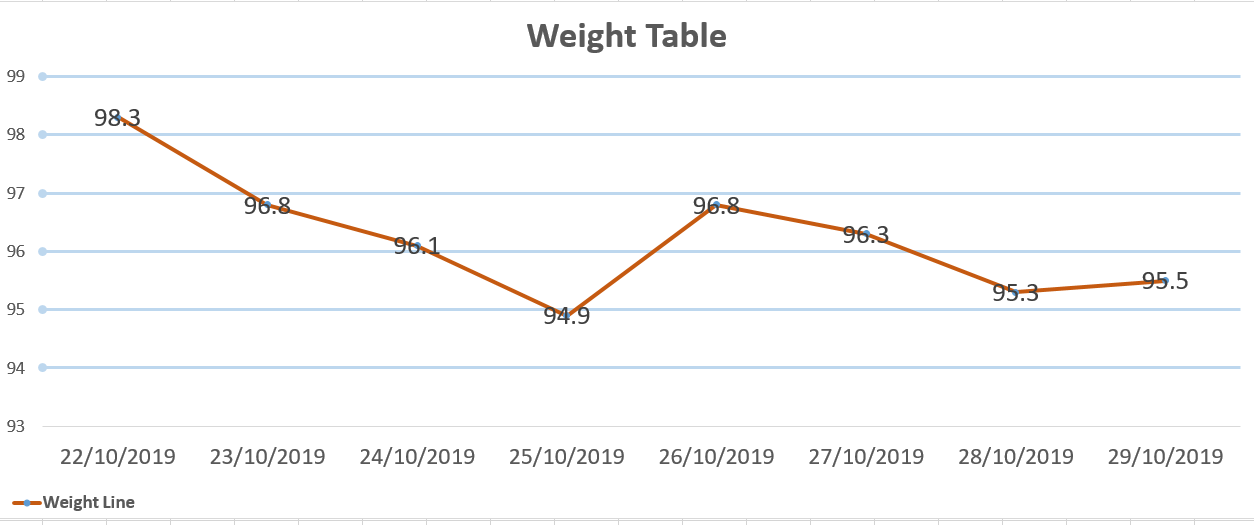
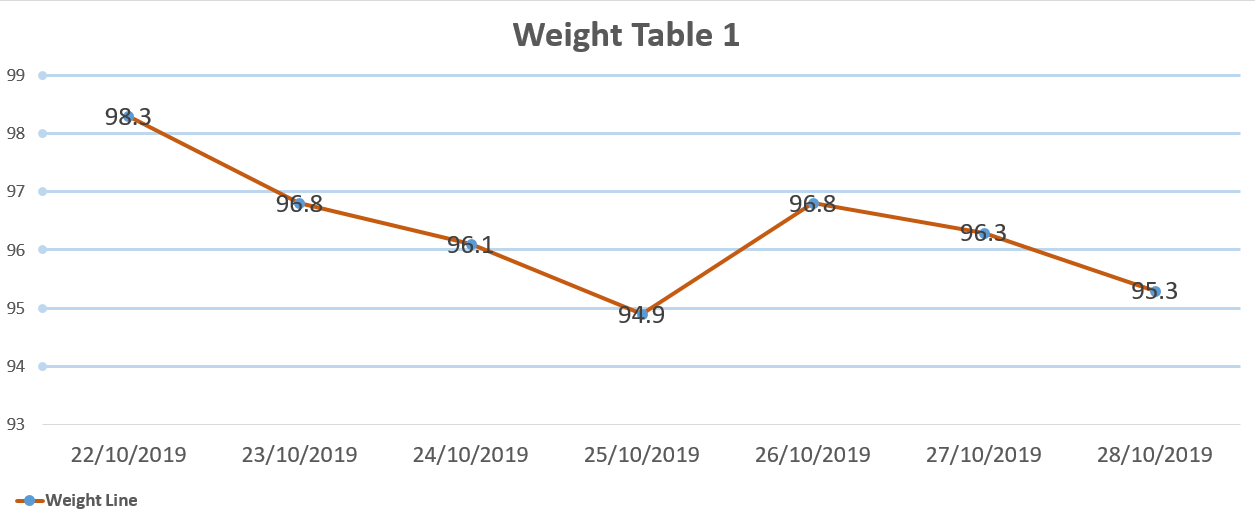
update

diff --git a/_posts/2019-11-11-day21.html b/_posts/2019-11-11-day21.html
@@ -1,0 +1,89 @@
+---
+layout: post
+title: "Day 21 - Bar Brothers Workout"
+subtitle: "Maybe hard to believe but I managed to reach the weight of
+the previous weekend. It's just amazing. My body starts to change, and the
+feeling is amazing. The workouts are
+hard. But everything pays off."
+date: 2019-11-11
+background: '/img/posts/intro-barbrothers.png'
+---
+
+
+<h2 class="section-heading">Weight - 94.0kg</h2>
+
+<p>
+  So today I weighed myself in the morning, I saw that my weight was back to being
+  just like last Friday (8.11.19). The feeling was good. But today I must not be hungry
+  like yesterday and so yesterday as I said I made green beans, it looks very good and
+  the smell of it is
+  amazing.
+<p>
+</p>
+  Today I decided to show all the tables so far,
+  I started training on Tuesday and so today (Monday) I close a
+  3 week cycle. Not just exercising every day but the results are
+  not too late to come, I think the Bar Brothers program is great for me,
+  and I really see results fast and now more than ever because my weight has
+   returned to being very fast what it was a week ago.
+</p>
+
+<p>
+</p>
+The first table shows that there is a drop from 98.3 and a relatively
+steep decline for the other graphs shown here, everywhere in the other
+mid-weight shows, this is the weekend when I dropped a bit of exercise
+and ate a little beyond what
+I was supposed to eat.
+<p>
+</p>
+
+
+
+<img class="img-fluid" src="/img/posts/weight-table1.png" alt="Demo Image">
+<span class="caption text-muted">The first week of my training</span>
+<p>
+</p>
+
+The second table shows that there is a little jump before the weekend
+and that is because I brought to the restaurant in the evening, although
+I did not eat leftovers from forbidden things, it was salad with tuna, but
+there were some potatoes and this has a relatively sharp effect before bed.
+After the weekend my weight jumped again and this time I gained weight to 96 kg.
+<p>
+</p>
+<img class="img-fluid" src="/img/posts/weight-table2.png" alt="Demo Image">
+<span class="caption text-muted">The scond week of my training</span>
+<p>
+</p>
+In the third table the beginning of the week started with a moderate drop
+and then again a sharp jump over the weekend, but note, this is almost 2kg
+ more than I had in the weeks before that, after which I lost weight
+ quite quickly to the weight I had on November 8th.
+ <p>
+ </p>
+<img class="img-fluid" src="/img/posts/weight-table3.png" alt="Demo Image">
+<span class="caption text-muted">The third training week</span>
+
+<p>
+It is best to see that there is a steady pace, a fall that I have on weekends and
+that I eat more than usual, but even if you fell down, if you give up then you
+lose everything. You have to go ahead and stop the program in the middle. At the
+moment, the results are brewing at a good pace. In another 20 days we will know
+exactly what the situation is and a comparison of pictures before and after.
+</p>
+<p>
+
+In addition, after a month, the waist and arms should be checked and abdomen
+and pelvis,
+</p>
+<p>
+Good night.
+</p>
+
+<a target="_blank" href="http://bit.ly/lookit-barbrothers"><img class="img-fluid" src="https://barbrothersdc.com/images/banners/gifbanner2.gif"/>
+</a>
+<ins class="adsbygoogle"
+     style="display:inline-block;width:728px;height:90px"
+     data-ad-client="ca-pub-7581310427771507"
+     data-ad-slot="7549637018"></ins>

diff --git a/_posts/2019-11-10-day20.html b/_posts/2019-11-10-day20.html
@@ -7,7 +7,7 @@ at 94kg which is excellent. This week we will see if I reach 92k and
  if so then maybe in two weeks I will already reach 90kg. It all depends
   on what the week will be, as well as the pullup
 attempts at this week's training."
-date: 2019-11-09
+date: 2019-11-10
 background: '/img/posts/intro-barbrothers.png'
 ---
 
@@ -15,16 +15,49 @@ background: '/img/posts/intro-barbrothers.png'
 <h2 class="section-heading">Weight - 94.6kg</h2>
 
 <p>
-So today I was able to register myself success, to come and reach such
-weight as early as the week it is very encouraging
+So today I was able to tall myself success, to come and reach such
+weight as early as the week it is very encouraging. At first I thought I would
+consider a lot at the beginning of the week,
+but maybe that's how I can reach 92kg this weekend.
 </p>
 
-<img class="img-fluid" src="/img/posts/weight-table2.png" alt="Demo Image">
+<img class="img-fluid" src="/img/posts/all-weight-tables1.png" alt="Demo Image">
 <span class="caption text-muted">My new wight table for at last.</span>
+<p>
+In the evening I was really hungry, but I stopped to rest at home anyway,
+drank fruit smoothies, pear and dates with water. It was nice it kind
+of woke me up but didn't really calm the hunger, after letting my girl sleep,
+I decided to do sports at home anyway.
+</p>
+<p>
+I started with the killer cardio I do every day, then I did Bar Brothers
+Cardio training, and then I did what I wrote, reverse pullup, it was hard, I got
+on the Bar and then I slowed down, the rate of decline was about 3 seconds. Between
+each round, I waited 15 seconds. Each set contained 5 rounds and in total I made 3
+sets which is 15 rounds.
+</p>
+<p>
+It was hard and my arms hurt a lot after I finished, so I ate a tuna with tied eggs
+and lots of tea. I took a shower and went to bed. Being hungry is not good. But what's
+interesting is that I'm losing weight. Anyway that evening I did something extra.
+</p>
+<p>
+I made green pork with garlic and onion and added 8 almonds to it, today I will eat
+it at noon, I tasted it yesterday and it was delicious, I will take two fruits and
+green tea tomorrow, I really hope to reach a weight of 92kg this weekend.
+</p>
+<p>
 
-
-
-
+From what it looks like my body realizes that I am in a state of decline and that I
+am not going to stop and therefore it seems to me that the body is adapting itself to
+the situation. Once someone told me that if I want to make some change in life and I know
+what ways I should make the change, I have to follow those ways for 40 days, then it will
+be easier and the change will be clearer.
+</p>
+<p>
+So this is a two year old friends, I am on the road to change and this is the 20th day and
+I think my body understands this and is now shedding more than 0.2kg every day.
+</p>
 
 <p>
 Good night.

diff --git a/_posts/2019-11-08-day18.html b/_posts/2019-11-08-day18.html
@@ -23,6 +23,12 @@ my weight table. Now weekend and usually weekend I gain some weight, what
 it takes is to be careful about what I eat.
 </p>
 
+
+<img class="img-fluid" src="/img/posts/day18.png" alt="Demo Image">
+<span class="caption text-muted">94.0kg</span>
+
+
+
 <p>
 I really hope that at the beginning of the week I will reach the
  weight I mentioned, it will help me a lot. Anyway, I figured out
